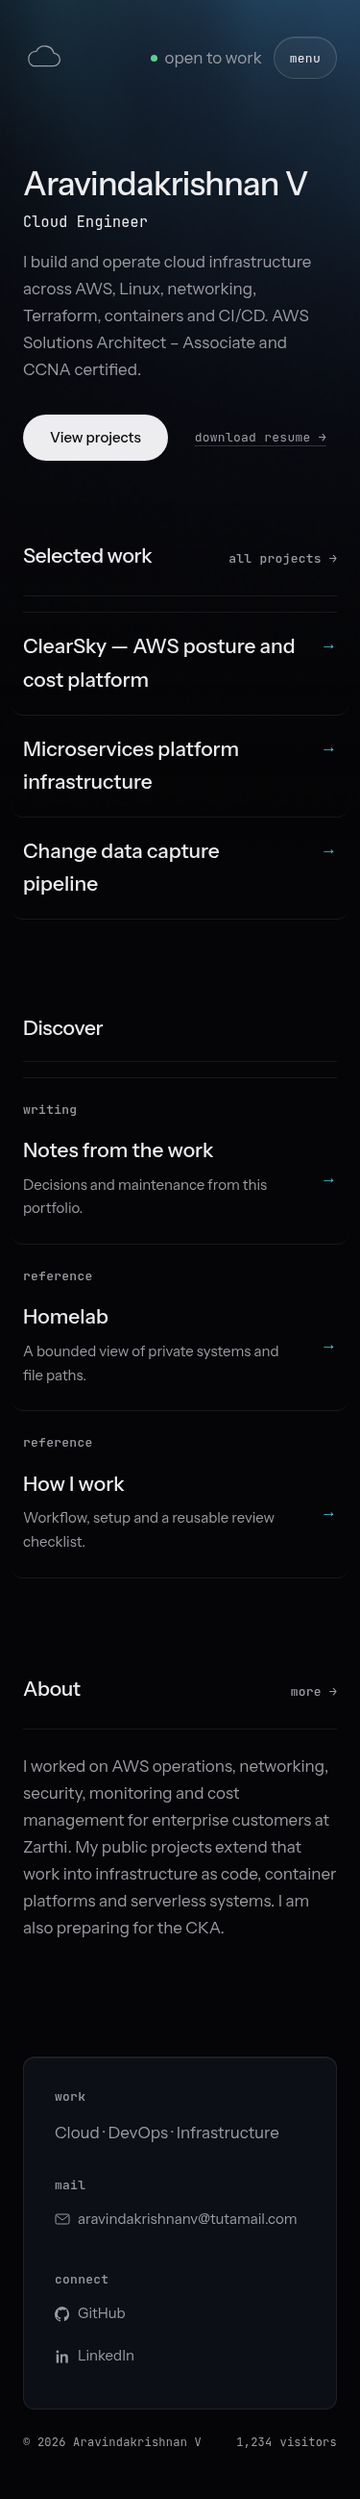
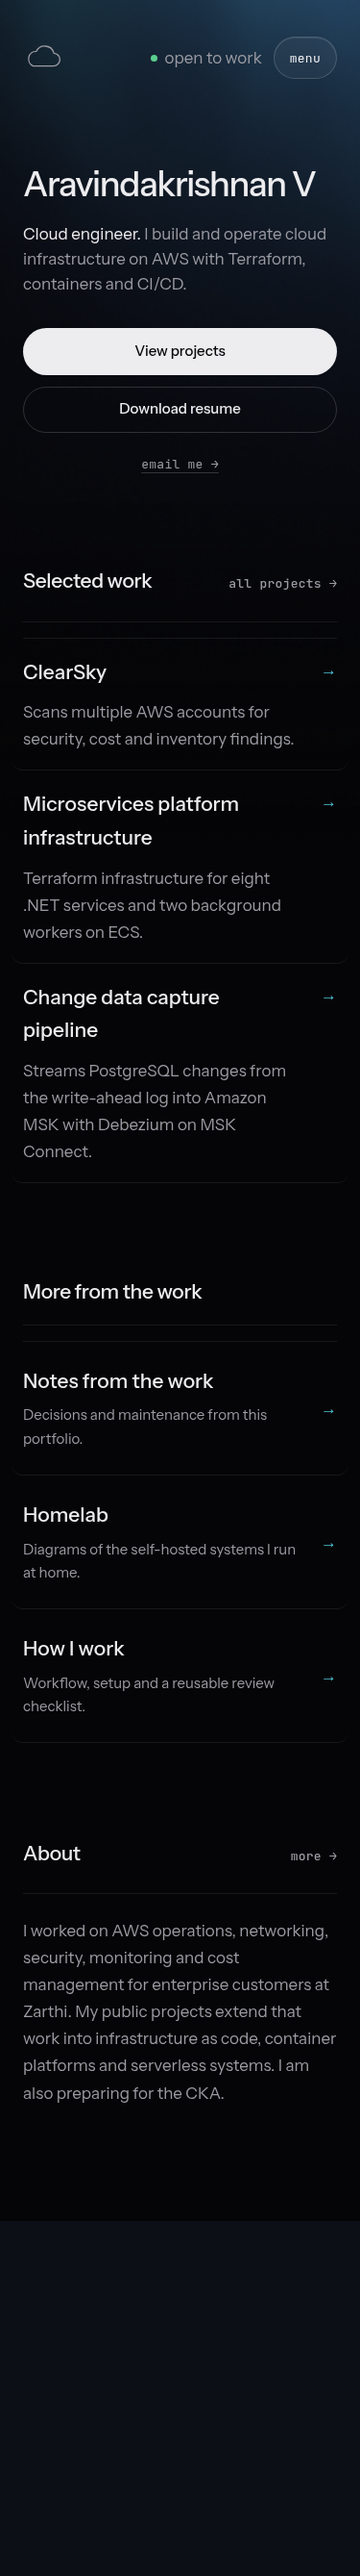
feat(home): simple recruiter-first first screen
- The name scales to 72px, followed by one sentence that opens with the
  role, then three actions: View projects, Download resume and email.
  On phones the two pills go full width and all three fit the first
  screen.
- Selected work rows show the short name and the summary's first
  sentence instead of the name alone.
- Discover becomes More from the work, without category labels.
- The footer drops the role restatement column.
- home.json: role casing, a shorter introduction that leaves the
  certifications to About, and a plainer Homelab line.

diff --git a/web/src/styles/global.css b/web/src/styles/global.css
@@ -218,10 +218,10 @@ img { max-width: 100%; display: block; }
 .hero h1 {
   margin: 0;
   max-width: 26ch;
-  font-size: clamp(34px, 4.4vw, 56px);
+  font-size: clamp(32px, 9.6vw, var(--t-72));
   font-weight: 500;
-  line-height: 1.08;
-  letter-spacing: -0.02em;
+  line-height: 1.02;
+  letter-spacing: -0.035em;
   text-wrap: balance;
 }
 .hero p {
@@ -229,12 +229,13 @@ img { max-width: 100%; display: block; }
   max-width: 74ch;
   color: var(--muted);
 }
-.hero .hero-role {
-  margin-top: 10px;
-  color: var(--text);
-  font: 400 15px/1.5 var(--mono);
-  letter-spacing: 0.02em;
+.hero .hero-lead {
+  max-width: 40ch;
+  margin-top: 20px;
+  font-size: clamp(17px, 2vw, 21px);
+  line-height: 1.55;
 }
+.hero .hero-lead strong { color: var(--text); font-weight: 400; }
 .project-row.compact { padding-block: 18px; }
 .project-row.compact h2 { font-size: 21px; }
 /* ---------- hero call to action ----------
@@ -261,6 +262,27 @@ img { max-width: 100%; display: block; }
   transition: opacity 200ms var(--ease);
 }
 .btn:hover { opacity: 0.78; color: #08080b; }
+.btn { min-height: var(--hit); justify-content: center; }
+.btn-outline {
+  display: inline-flex;
+  align-items: center;
+  justify-content: center;
+  min-height: var(--hit);
+  padding: 0 24px;
+  border: 1px solid var(--hairline-strong);
+  border-radius: 999px;
+  color: var(--text);
+  font-size: 15px;
+  font-weight: 500;
+  transition: background 200ms var(--ease);
+}
+.btn-outline:hover { background: var(--surface-2); color: var(--text); }
+@media (max-width: 680px) {
+  .hero .cta { gap: 12px; }
+  .hero .cta .btn,
+  .hero .cta .btn-outline { flex: 1 1 100%; min-height: 48px; }
+  .hero .cta .btn-quiet { margin-inline: auto; }
+}
 .btn-quiet,
 a.label {
   display: inline-flex;
@@ -546,7 +568,7 @@ figure.arch figcaption {
 .discover-list { margin-top: 16px; border-top: 1px solid var(--hairline); }
 .discover-list a {
   display: grid;
-  grid-template-columns: 180px minmax(0, 1fr) auto;
+  grid-template-columns: minmax(0, 1fr) auto;
   gap: 16px 24px;
   align-items: center;
   margin-inline: clamp(-24px, -2vw, -12px);
@@ -561,8 +583,6 @@ figure.arch figcaption {
 @media (max-width: 680px) {
   .blog-row { grid-template-columns: 1fr auto; }
   .blog-row time { grid-column: 1 / -1; }
-  .discover-list a { grid-template-columns: 1fr auto; }
-  .discover-list .label { grid-column: 1 / -1; }
 }
 
 /* ---------- footer ---------- */

diff --git a/DESIGN.md b/DESIGN.md
@@ -148,18 +148,23 @@ count belongs in the footer. Below 680 px the bar stays one row: mark, availabil
 toggle built on `<details>`, which opens a sheet of 48 px links without JavaScript. Escape does not
 close it, because native `<details>` has no such behaviour and no script is added for it.
 
-**Hero** — the person's full name is the primary heading, followed by a quiet mono role,
-one evidence-led paragraph, then two actions: a solid pill (`View projects`)
-and a quiet mono link (`download resume →`). Contact remains in About and the footer.
-Nothing else. Badge/chip rows were tried and cut: they read as generic template furniture,
-and the facts they carried (cost, certifications, keyless CI) belong in About and the case
-studies, where they can be argued instead of asserted.
+**Hero** — Home's first screen is for a recruiter and stays simple. The person's full name is
+the primary heading at `--t-72` (scaling down to fit one line on a 375 px phone), followed by
+one sentence that starts with the role in `--text` ("Cloud engineer.") and continues in
+`--muted`. Then three actions in the order a recruiter uses them: a solid pill
+(`View projects`), an outline pill (`Download resume`) and a quiet mono `email me →`. Below
+680 px the two pills go full width at 48 px. Nothing else: no stats, counters, cards or panels.
+Proof lives one click away, in the case studies. The open space beside the hero on desktop is
+deliberate; the ocean light fills it. Approved by the author on 2026-11-05 after a mockup in the
+redesign system.
 
 **Project row** — the full Projects index uses project name (21 px), concise outcome
 (`--muted`), stack line (mono, 13 px), status and arrow. Home's Selected work variant is
-intentionally compact: name and arrow only. No highlighted metric or marketing tagline.
-The whole row links to its case study. GitHub is a secondary action within that detail page;
-only projects explicitly exempted from case studies may remain unlinked or link directly.
+compact: the name before " — " and the summary's first sentence, then the arrow. No highlighted
+metric or marketing tagline. The whole row links to its case study. GitHub is a secondary action
+within that detail page; only projects explicitly exempted from case studies may remain unlinked
+or link directly. Home's "More from the work" rows (blog, Homelab, How I work) use the same
+shape: title, one line, arrow.
 
 **Case-study section** — fixed order: Problem · Architecture · Decisions and tradeoffs ·
 What broke and how it was fixed · Numbers. Each section led by a mono label at 13 px.
@@ -173,8 +178,9 @@ link. Badge canvases are normalized to one size so different vendor artwork does
 the grid.
 
 **Footer** — one restrained bordered surface panel with small mail, GitHub and LinkedIn
-icons, followed by copyright and visitor count. No implementation tagline and no repeated
-contact paragraph. The panel may echo the glass composition but does not add another
+icons, followed by copyright and visitor count. No implementation tagline, no role restatement
+(the "Cloud · DevOps · Infrastructure" column was removed in Phase 18) and no repeated contact
+paragraph. The panel may echo the glass composition but does not add another
 backdrop-filter layer.
 
 **Visitor counter** — mono readout in the footer. Shows `····` until resolved, and keeps
@@ -184,9 +190,9 @@ showing `····` if the API fails. **Never renders a fabricated number.**
 
 - The fold answers, in order: what he does → how to act on it → the work. No slogans above
   the fold, and no personality claims about 3am or boredom.
-- The hero heading is the person's name, followed by the role. The introductory sentence
-  names the discipline, not a vendor: "I build and operate cloud infrastructure."
-  Vendors, services and versions belong in the supporting copy and case studies.
+- The hero heading is the person's name, followed by one sentence that opens with the role.
+  It names the discipline first ("I build and operate cloud infrastructure"), then the platform
+  and tools in the same sentence. Certifications live on About and in the resume, not the hero.
 - **Cost language:** never publish "₹0", "zero cost", or "free" — it invites an argument
   about what is really free and reads as a gimmick. Say **"minimal running cost"**, or
   describe the engineering: no NAT gateway, no idle compute, torn down when not in use.

diff --git a/TASKS.md b/TASKS.md
@@ -1,6 +1,34 @@
 # Portfolio tasks
 
-## Current phase: 17, design tokens, phone nav and tap targets
+## Current phase: 18, simple recruiter-first Home
+
+Branch `feat/simple-home`. Standard: Home template, row component, footer, CSS and `home.json` copy.
+
+- [x] Hero: name at `--t-72` (36 px on a 375 px phone, one line), "Cloud engineer." plus one
+      sentence, then View projects, Download resume (outline) and email me. Full-width pills on phones.
+- [x] Selected work: compact rows show the short name and the summary's first sentence.
+- [x] "Discover" becomes "More from the work"; the `writing`/`reference` labels are gone.
+- [x] Footer: the "Cloud · DevOps · Infrastructure" column is removed on every page.
+- [x] Copy (`home.json`, for author review): role "Cloud engineer"; introduction "I build and
+      operate cloud infrastructure on AWS with Terraform, containers and CI/CD."; Homelab line
+      "Diagrams of the self-hosted systems I run at home." Certifications move off the hero.
+- [ ] Fresh-context review; live check after apply.
+
+Local evidence, 2026-11-06:
+
+```text
+git diff --check: exit 0; astro check: 0 errors; node:test: 14 passed, 0 failed
+browser gate (playwright 1.63.0, axe-core 4.13.0, chromium), 14 pages:
+  axe 0 violations; overflow none at 320/375/768/1280/2560; no-JS, keyboard, links PASS
+375 px Home: h1 one line at 165-202 px; View projects 327x49, Download resume 327x48,
+  email me 81x44; last action ends at 498 px of 812
+terraform plan: 1 add, 14 change, 1 destroy, 0 replace (hashed CSS swap; every page has the new footer)
+```
+
+## Previous phase: 17, design tokens, phone nav and tap targets
+
+Merged as PR #54 and applied 2026-11-06: 2 add, 14 change, 2 destroy; post-apply plan empty. Live
+at 375 px the menu opens above the page and no standalone link is under 44 px.
 
 Branch `feat/design-tokens-nav`. Standard: CSS, nav markup and the local browser gate.
 

diff --git a/ROADMAP.md b/ROADMAP.md
@@ -262,7 +262,20 @@ No Home content or layout change (Phase 18), no infrastructure.
 Exit criteria:
 - [x] Browser gate: 0 axe violations, no overflow 320 to 2560 px, no-JS, keyboard and links pass on all 14 pages.
 - [x] No standalone link under 44 px on any page at 375 px except the Homelab Atlas rail (Phase F).
-- [ ] Fresh-context review; CI; merge; live check of the phone menu.
+- [x] Fresh-context review; CI; merge; live check of the phone menu.
+
+## Phase 18: simple, recruiter-first Home
+
+**Class:** Standard. "Phase C" in the 2026-11-05 redesign system; author approved the mockup.
+
+Scope: hero name at `--t-72`, one role-led sentence, three actions (projects, resume, email);
+compact project rows with one sentence each; "More from the work" rows without category labels;
+footer loses the role column. Copy changes in `home.json`: role casing, a shorter introduction
+and a plainer Homelab line. No infrastructure.
+
+Exit criteria:
+- [x] Browser gate passes on all 14 pages; on a 375 px phone the name, sentence and all three actions fit the first screen.
+- [ ] Fresh-context review; CI; merge; live check at 375 and 1280 px.
 
 ## Delegation budget
 
